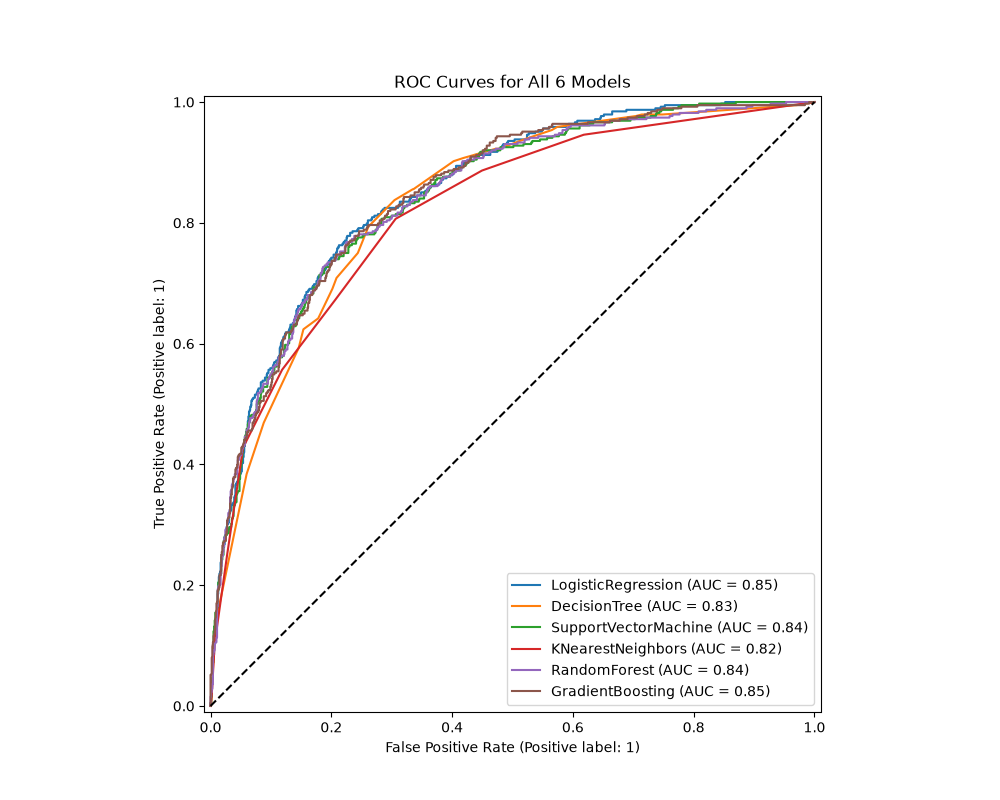
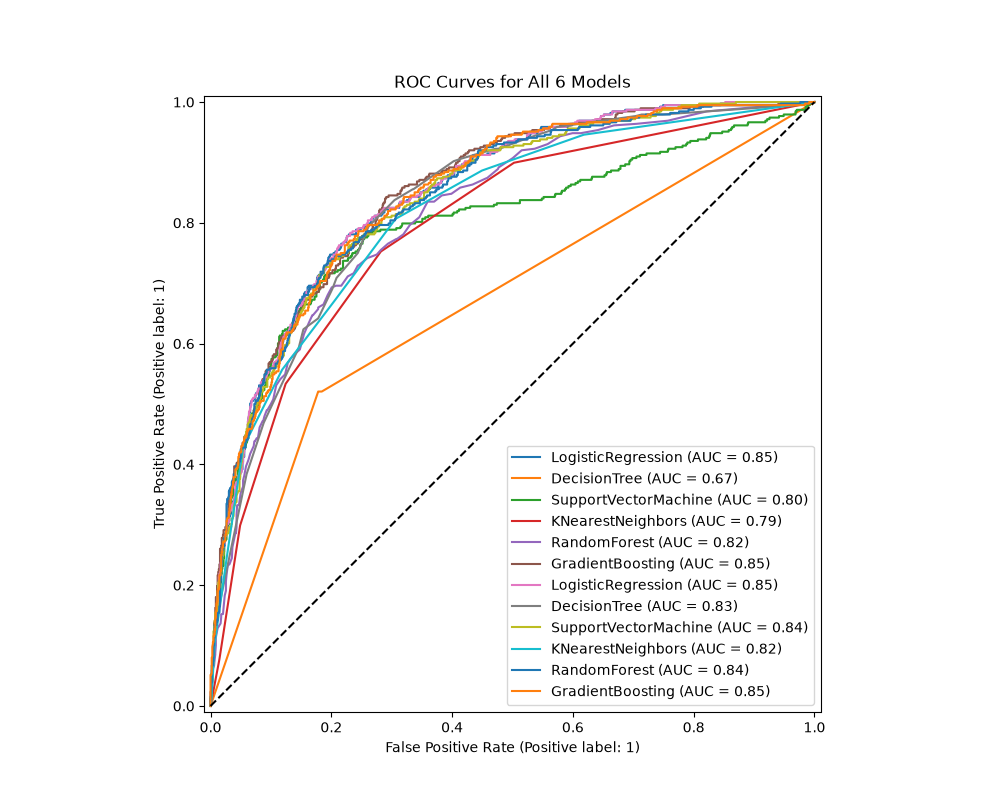
basline to compare

diff --git a/main.py b/main.py
@@ -98,6 +98,28 @@ x_train, x_test, y_train, y_test = train_test_split(x, y, test_size=0.2, random_
 
 fig, ax = plt.subplots(figsize=(10, 8))
 
+#baseline
+for model_name, current_model in models.items():
+    
+    pipeline = Pipeline(
+        [("preprocessor", preprocessor), ("models", current_model)]
+    )
+    pipeline.fit(x_train, y_train)
+    prediction = pipeline.predict(x_test)
+    precision = precision_score(y_test, prediction)
+    accurary = accuracy_score(y_test, prediction)
+    recall = recall_score(y_test, prediction)
+    confusionMatrix = confusion_matrix(y_test, prediction)
+    RocCurveDisplay.from_estimator(pipeline, x_test, y_test, ax=ax, name=model_name)
+    print(model_name, model_name)
+    print("BASELINE")
+    print(f"precision: {precision}")
+    print(f"accuracy: {accurary}")
+    print(f"recall: {recall}")
+    print(f"confusion matrix: \n {confusionMatrix}")
+    print("-" * 30)
+    
+
 for model_name, current_model in models.items():
     
     pipeline = Pipeline(

diff --git a/Readme.md b/Readme.md
@@ -178,7 +178,67 @@ Best Params: {'models__learning_rate': 0.1, 'models__max_depth': 3, 'models__n_e
 Best score: 0.5794095494469511
 
 
-full results, 
+Baseline results:
+
+LogisticRegression LogisticRegression()
+BASELINE
+precision: 0.6885245901639344
+accuracy: 0.8062455642299503
+recall: 0.5412371134020618
+confusion matrix: 
+ [[926  95]
+ [178 210]]
+------------------------------
+DecisionTree DecisionTreeClassifier()
+BASELINE
+precision: 0.5326370757180157
+accuracy: 0.7423704755145494
+recall: 0.5257731958762887
+confusion matrix: 
+ [[842 179]
+ [184 204]]
+------------------------------
+SupportVectorMachine SVC()
+BASELINE
+precision: 0.7153558052434457
+accuracy: 0.8062455642299503
+recall: 0.49226804123711343
+confusion matrix: 
+ [[945  76]
+ [197 191]]
+------------------------------
+KNearestNeighbors KNeighborsClassifier()
+BASELINE
+precision: 0.6197604790419161
+accuracy: 0.7814052519517388
+recall: 0.5335051546391752
+confusion matrix: 
+ [[894 127]
+ [181 207]]
+------------------------------
+RandomForest RandomForestClassifier()
+BASELINE
+precision: 0.6630824372759857
+accuracy: 0.7892122072391767
+recall: 0.47680412371134023
+confusion matrix: 
+ [[927  94]
+ [203 185]]
+------------------------------
+GradientBoosting GradientBoostingClassifier()
+BASELINE
+precision: 0.6983606557377049
+accuracy: 0.8105039034776437
+recall: 0.5489690721649485
+confusion matrix: 
+ [[929  92]
+ [175 213]]
+------------------------------
+
+
+
+
+full results with gridsearch, 
 LogisticRegression LogisticRegression() {'models__C': [0.1, 1.0, 10.0], 'models__solver': ['lbfgs', 'liblinear'], 'models__max_iter': [100, 500]}
 Best Params: {'models__C': 10.0, 'models__max_iter': 100, 'models__solver': 'liblinear'}
 Best score: 0.5905978729137848
@@ -240,3 +300,6 @@ confusion matrix:
  [187 201]]
 ------------------------------
 ![alt text](Results/roc_curve.png)
+
+Part B: 
+
